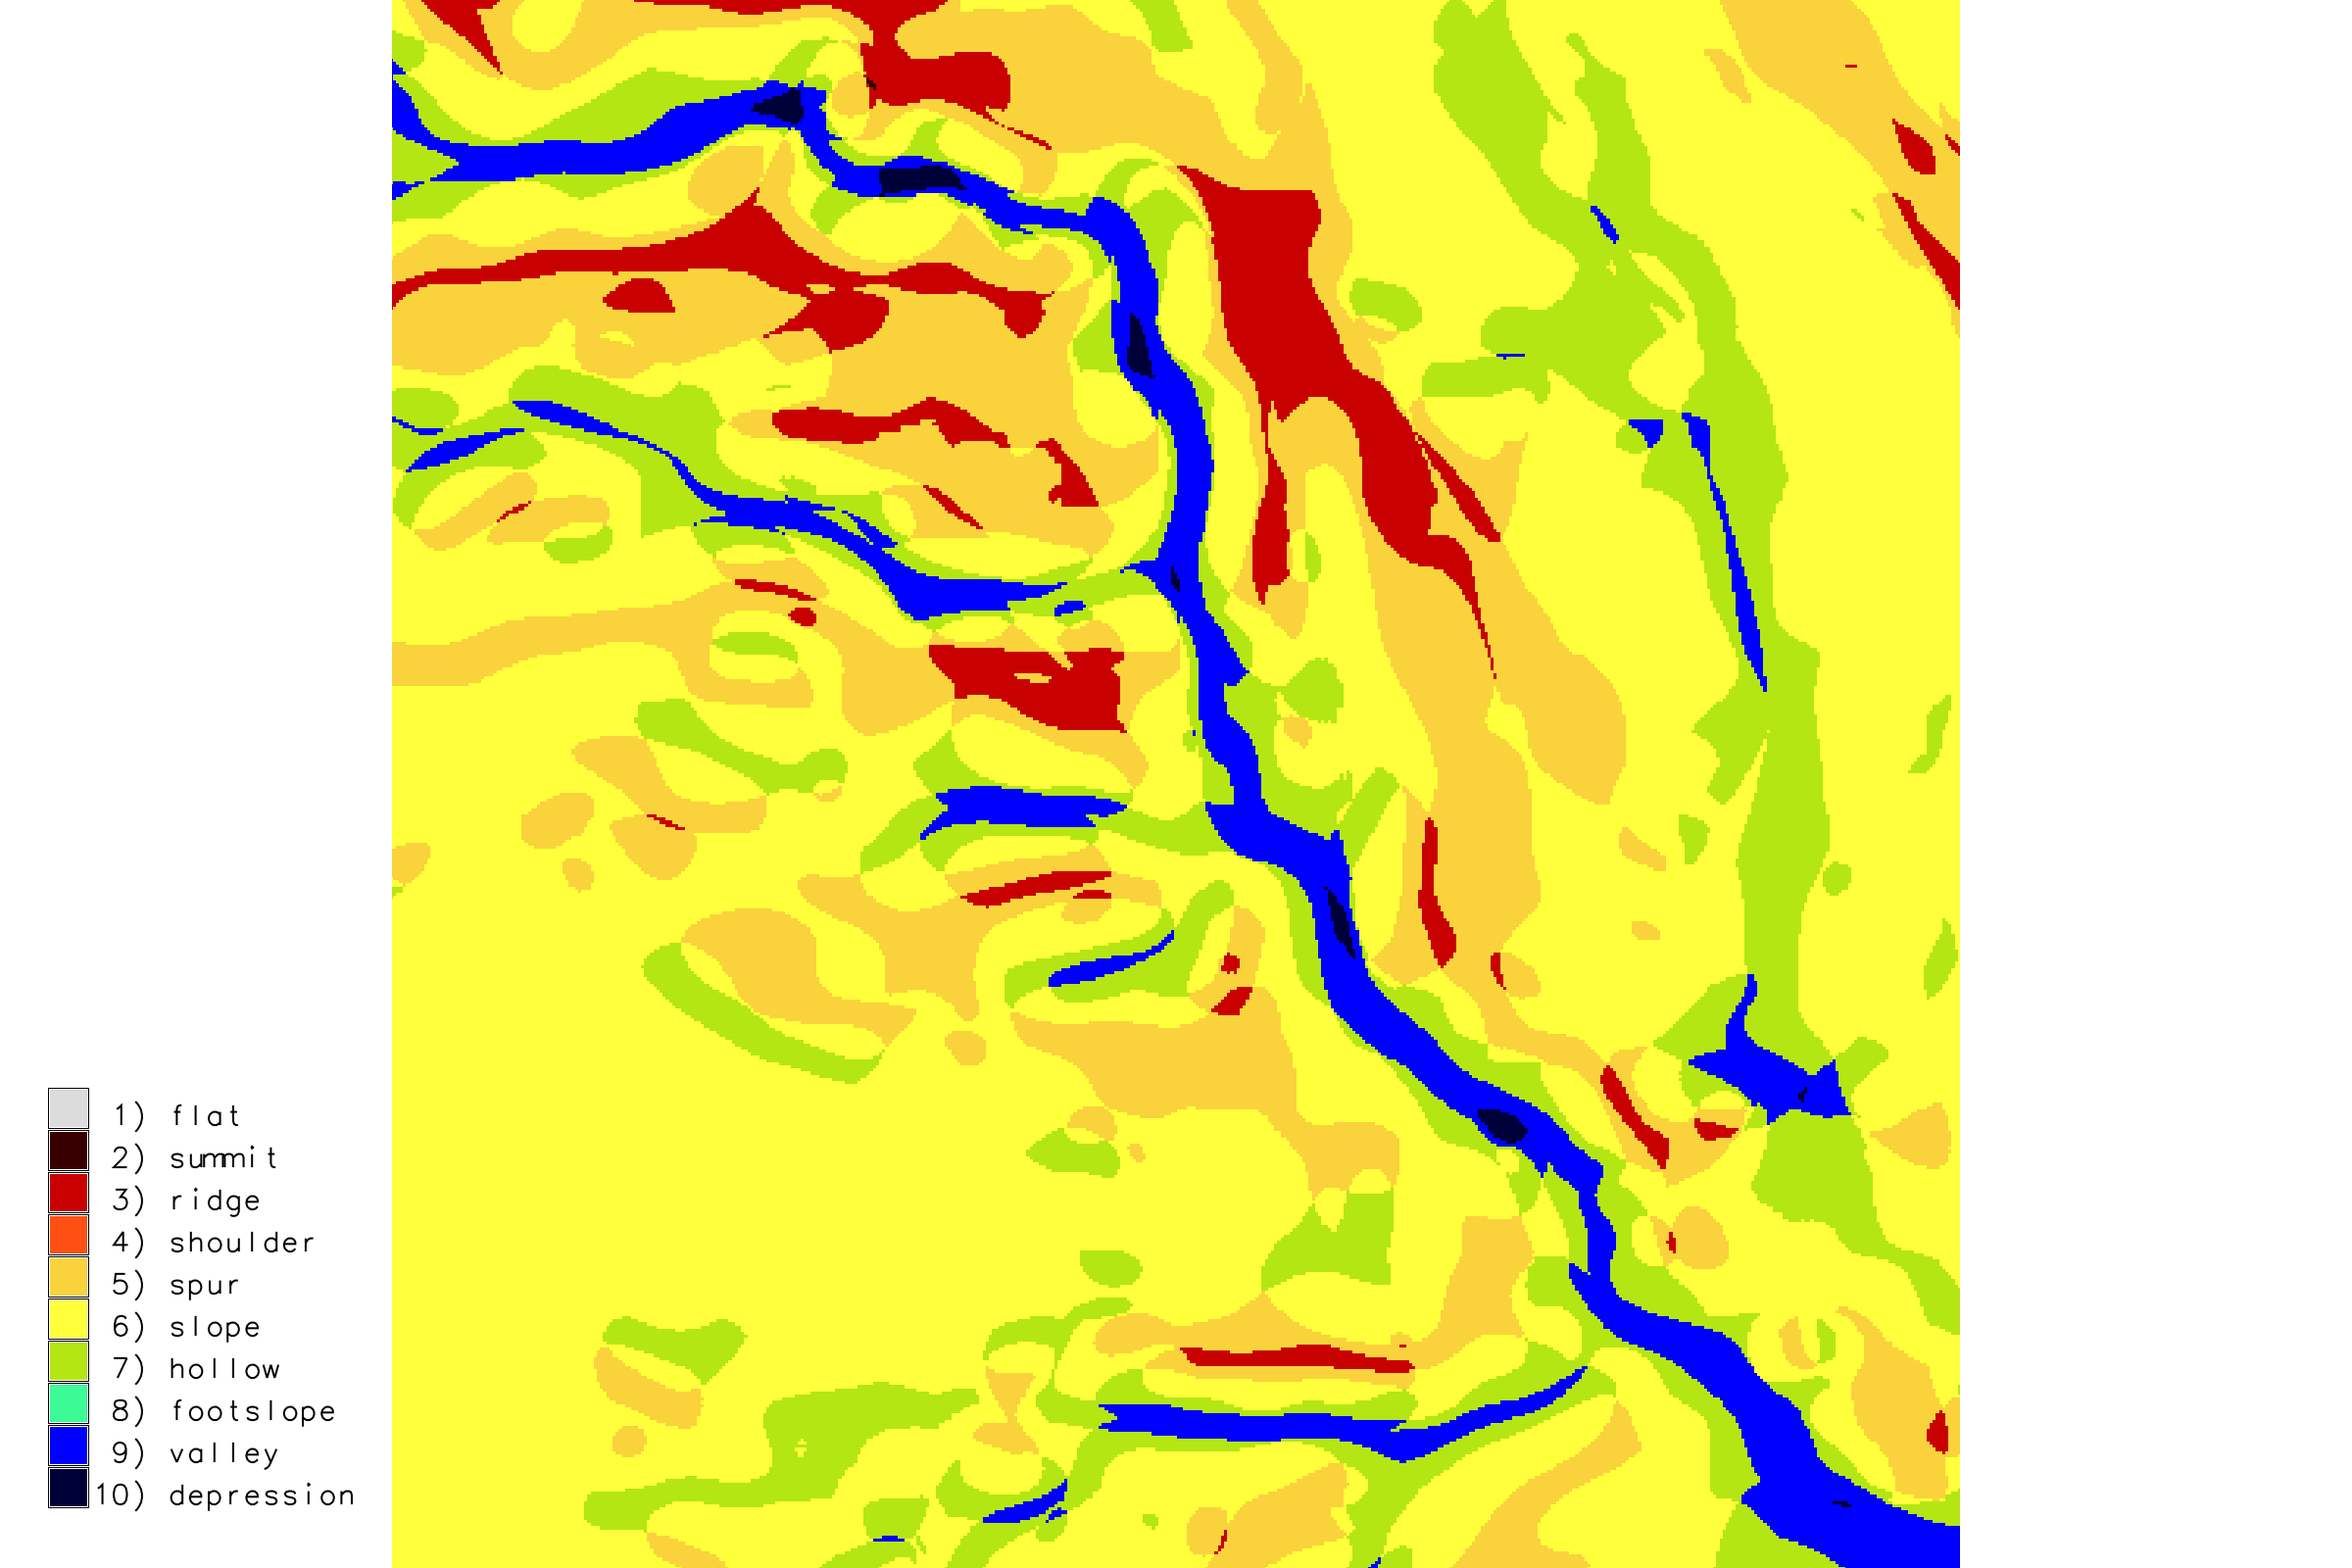
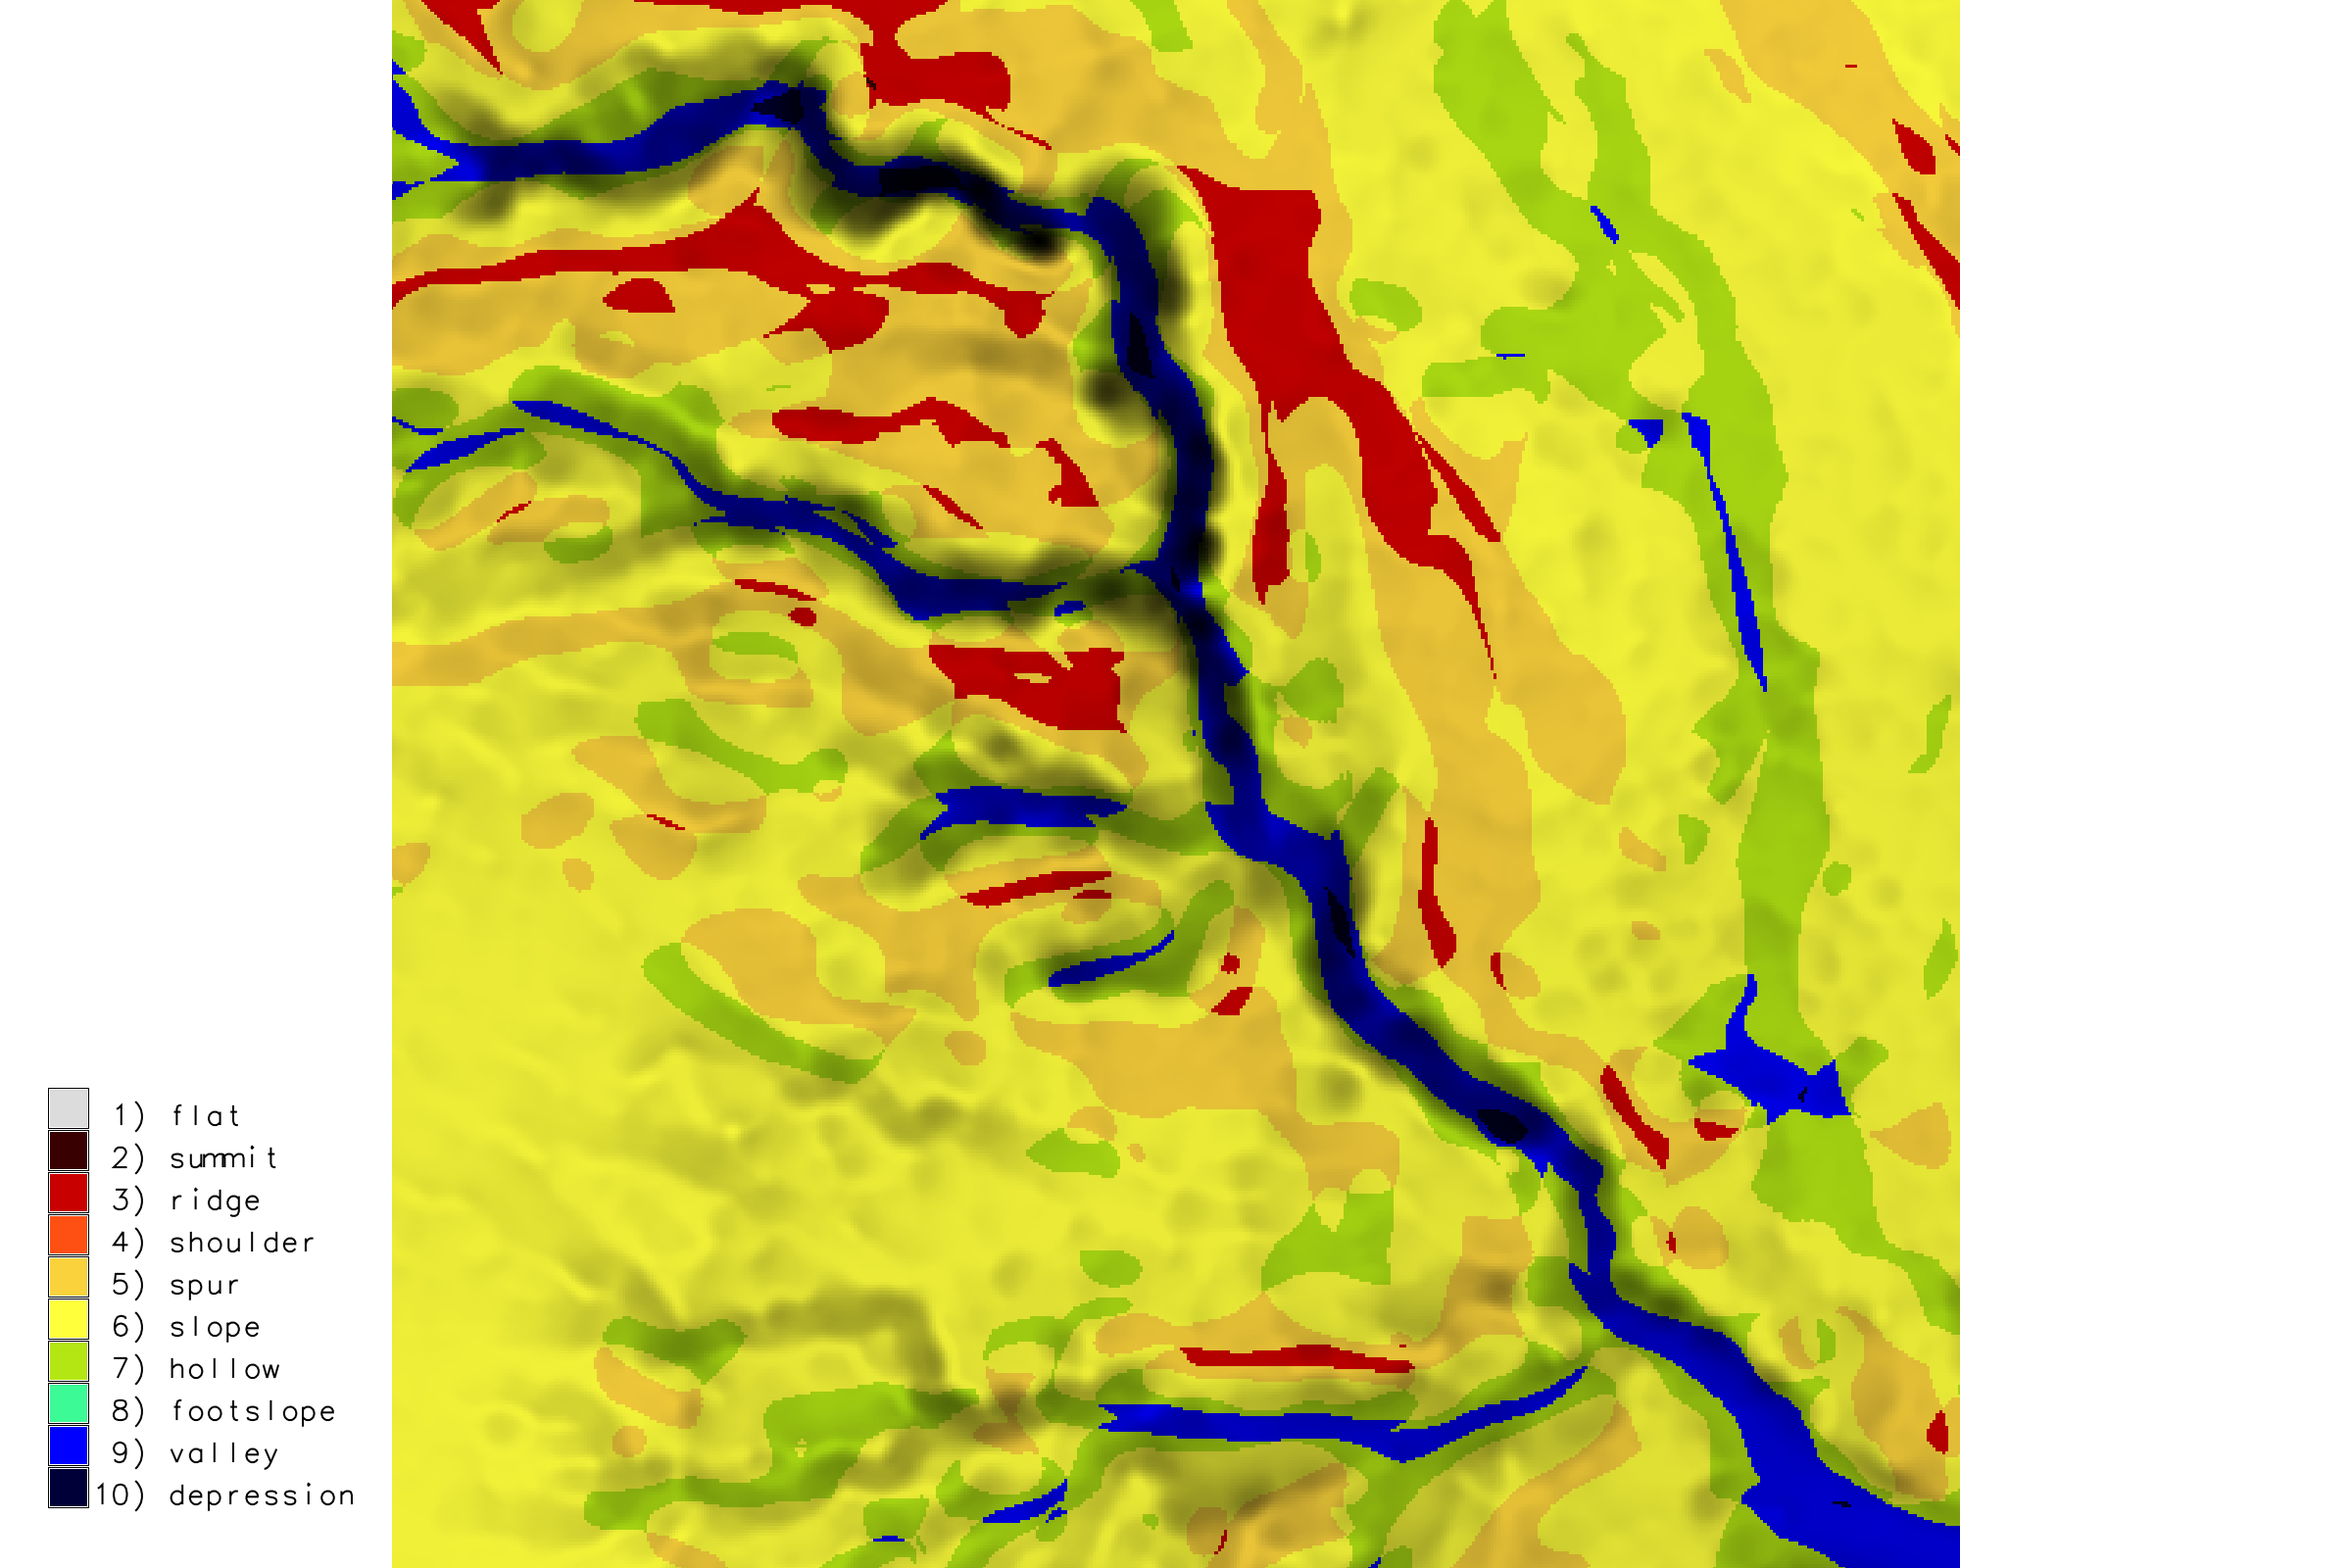
updated sample data images

diff --git a/testing/render_sample_data.py b/testing/render_sample_data.py
@@ -34,6 +34,7 @@ env['GRASS_MESSAGE_FORMAT'] = 'standard'
 gisdbase = env['GISDBASE']
 location = env['LOCATION_NAME']
 mapset = env['MAPSET']
+res=0.3
 
 # set 2D rendering parameters
 legend_coord = (2, 32, 2, 4)
@@ -71,7 +72,7 @@ def render_region_2d():
         os.makedirs(render)
 
     # set region
-    gscript.run_command('g.region', region='region', res=1)
+    gscript.run_command('g.region', region='region', res=res)
 
     # render shaded relief maps
     for year in years:
@@ -84,11 +85,6 @@ def render_region_2d():
             overwrite=overwrite)
         gscript.run_command('d.rast',
             map='shaded_relief_'+str(year))
-        # gscript.run_command('d.vect',
-        #     map='contours_'+str(year),
-        #     display='shape',
-        #     width=0.5,
-        #     color='white')
         gscript.run_command('d.legend',
             raster='elevation_'+str(year),
             fontsize=fontsize,
@@ -134,8 +130,10 @@ def render_region_2d():
         height=height,
         output=os.path.join(render, 'depth_2016.png'),
         overwrite=overwrite)
-    gscript.run_command('d.rast',
-        map='depth_2016')
+    gscript.run_command('d.shade',
+        shade='skyview_2016',
+        color='depth_2016',
+        brighten=0)
     gscript.run_command('d.legend',
         raster='depth_2016',
         fontsize=fontsize,
@@ -149,8 +147,10 @@ def render_region_2d():
         height=height,
         output=os.path.join(render, 'naip_2014.png'),
         overwrite=overwrite)
-    gscript.run_command('d.rast',
-        map='naip_2014')
+    gscript.run_command('d.shade',
+        shade='skyview_2016',
+        color='naip_2014',
+        brighten=0)
     gscript.run_command('d.mon', stop=driver)
 
     # render landcover
@@ -160,13 +160,32 @@ def render_region_2d():
         height=height,
         output=os.path.join(render, 'landcover.png'),
         overwrite=overwrite)
-    gscript.run_command('d.rast',
-        map='landcover')
+    gscript.run_command('d.shade',
+        shade='skyview_2016',
+        color='landcover',
+        brighten=0)
     gscript.run_command('d.legend',
         raster='landcover',
         fontsize=fontsize,
         at=legend_coord,
         flags='n')
+    gscript.run_command('d.mon', stop=driver)
+
+    # render landforms
+    gscript.run_command('d.mon',
+        start=driver,
+        width=width+border+border,
+        height=height,
+        output=os.path.join(render, 'landforms_2016.png'),
+        overwrite=overwrite)
+    gscript.run_command('d.shade',
+        shade='skyview_2016',
+        color='landforms_2016',
+        brighten=0)
+    gscript.run_command('d.legend',
+        raster='landforms_'+str(year),
+        fontsize=fontsize,
+        at=legend_coord)
     gscript.run_command('d.mon', stop=driver)
 
 
@@ -178,7 +197,7 @@ def render_subregion_2d():
         os.makedirs(render)
 
     # set region
-    gscript.run_command('g.region', region='subregion', res=1)
+    gscript.run_command('g.region', region='subregion', res=res)
 
     # render shaded relief maps
     for year in years:
@@ -206,8 +225,10 @@ def render_subregion_2d():
             height=height,
             output=os.path.join(render, 'gully_landforms_'+str(year)+'.png'),
             overwrite=overwrite)
-        gscript.run_command('d.rast',
-            map='landforms_'+str(year))
+        gscript.run_command('d.shade',
+            shade='skyview_2016',
+            color='landforms_'+str(year),
+            brighten=0)
         gscript.run_command('d.legend',
             raster='landforms_'+str(year),
             fontsize=fontsize,
@@ -278,7 +299,7 @@ def render_region_3d():
     # set region
     gscript.run_command('g.region',
                         region='region',
-                        res=1)
+                        res=res)
 
     # list of rasters to render
     rasters = ['elevation_2016',
@@ -357,7 +378,7 @@ def render_subregion_3d():
     # set region
     gscript.run_command('g.region',
                         region='subregion',
-                        res=1)
+                        res=res)
 
     # list of rasters to render
     rasters = ['elevation_2016',

diff --git a/testing/render_simulations.py b/testing/render_simulations.py
@@ -34,6 +34,7 @@ env['GRASS_MESSAGE_FORMAT'] = 'standard'
 gisdbase = env['GISDBASE']
 location = env['LOCATION_NAME']
 mapset = env['MAPSET']
+res=0.3
 
 # set 2D rendering parameters
 legend_coord = (2, 32, 2, 4)
@@ -69,7 +70,7 @@ def render_region_2d(mapset):
         s=150580,
         e=597645,
         w=597195,
-        res=1)
+        res=res)
 
     # render net difference with shaded relief
     gscript.run_command('d.mon',
@@ -108,7 +109,7 @@ def render_subregion_2d(mapset):
         s=150720,
         e=597440,
         w=597290,
-        res=1)
+        res=res)
 
     # render net difference with shaded relief
     gscript.run_command('d.mon',
@@ -160,7 +161,7 @@ def render_region_3d(mapset):
         s=150580,
         e=597645,
         w=597195,
-        res=1)
+        res=res)
 
     # list of rasters to render
     rasters = ['net_difference']
@@ -211,7 +212,7 @@ def render_subregion_3d(mapset):
         s=150720,
         e=597440,
         w=597290,
-        res=1)
+        res=res)
 
     # list of rasters to render
     rasters = ['net_difference']

diff --git a/testing/design_storm_simulations.py b/testing/design_storm_simulations.py
@@ -43,7 +43,7 @@ def main():
     """install dependencies, create mapsets and environments,
     create dictionaries with params, and then run simulations in parallel"""
 
-    # try to install dependencies
+    ## try to install dependencies
     # dependencies()
 
     # create mapsets and environments
